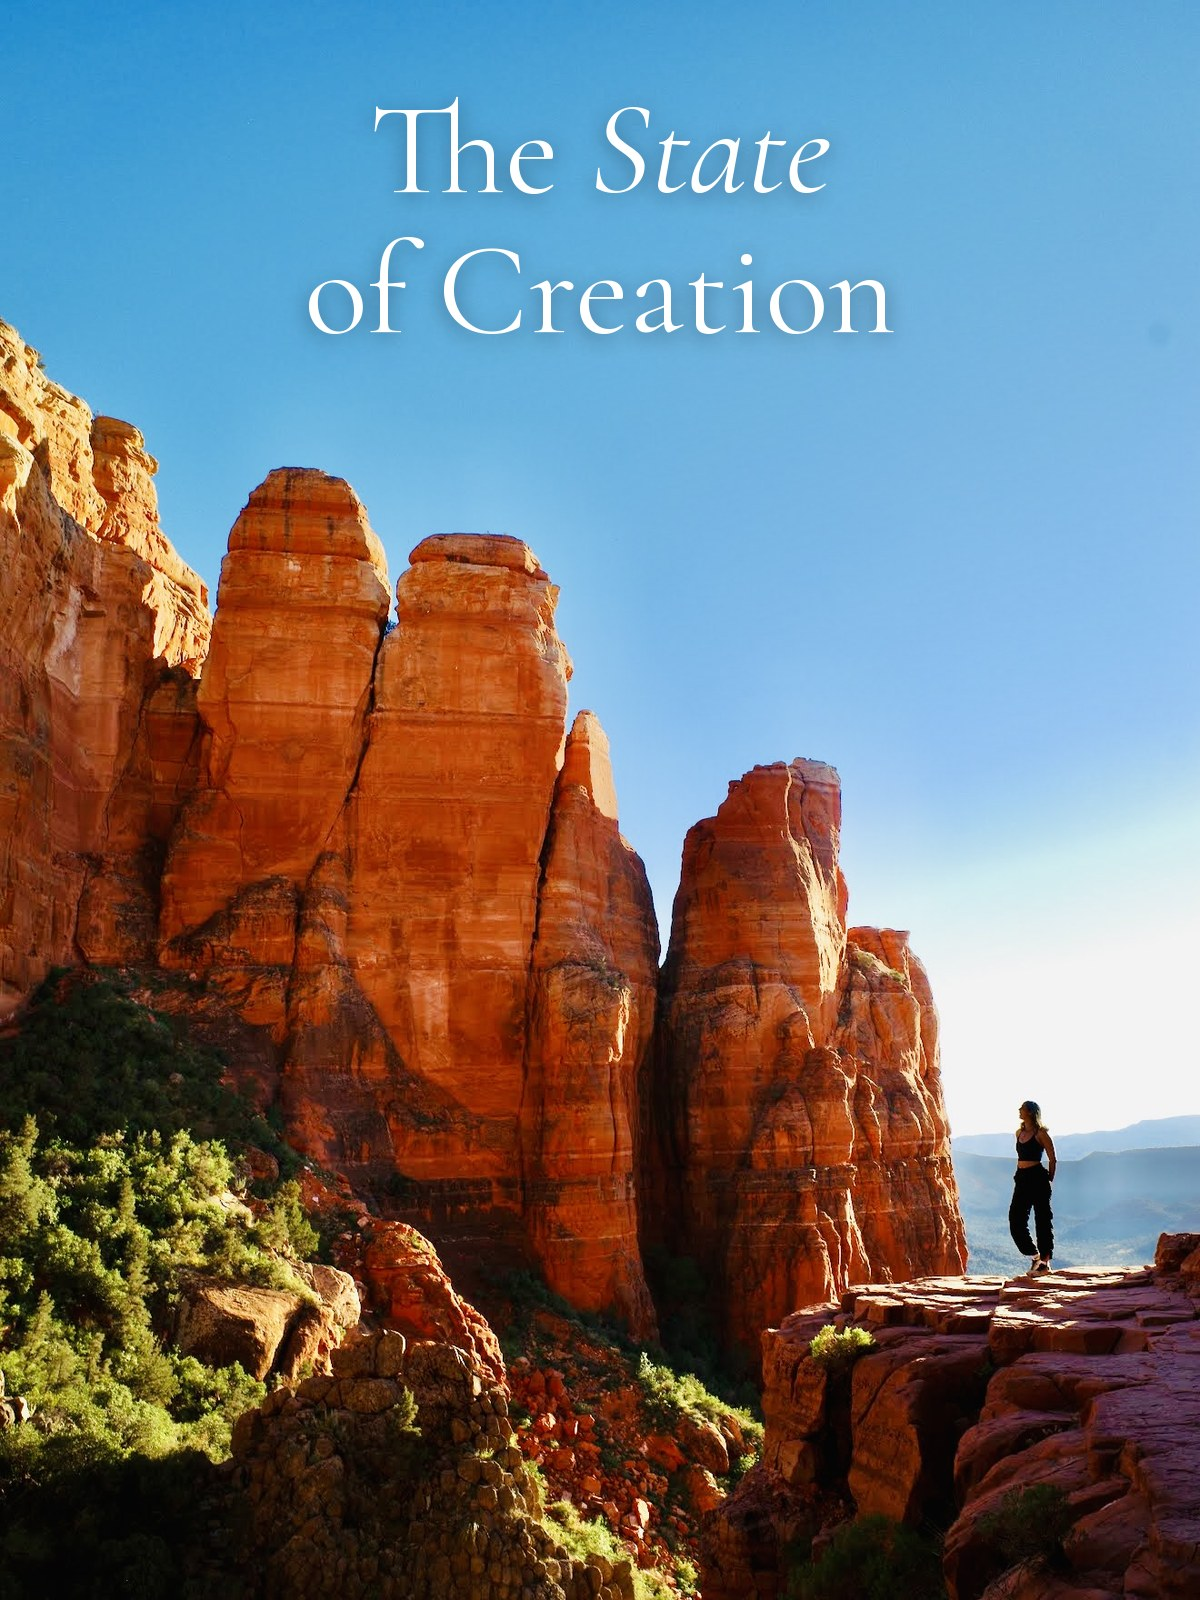
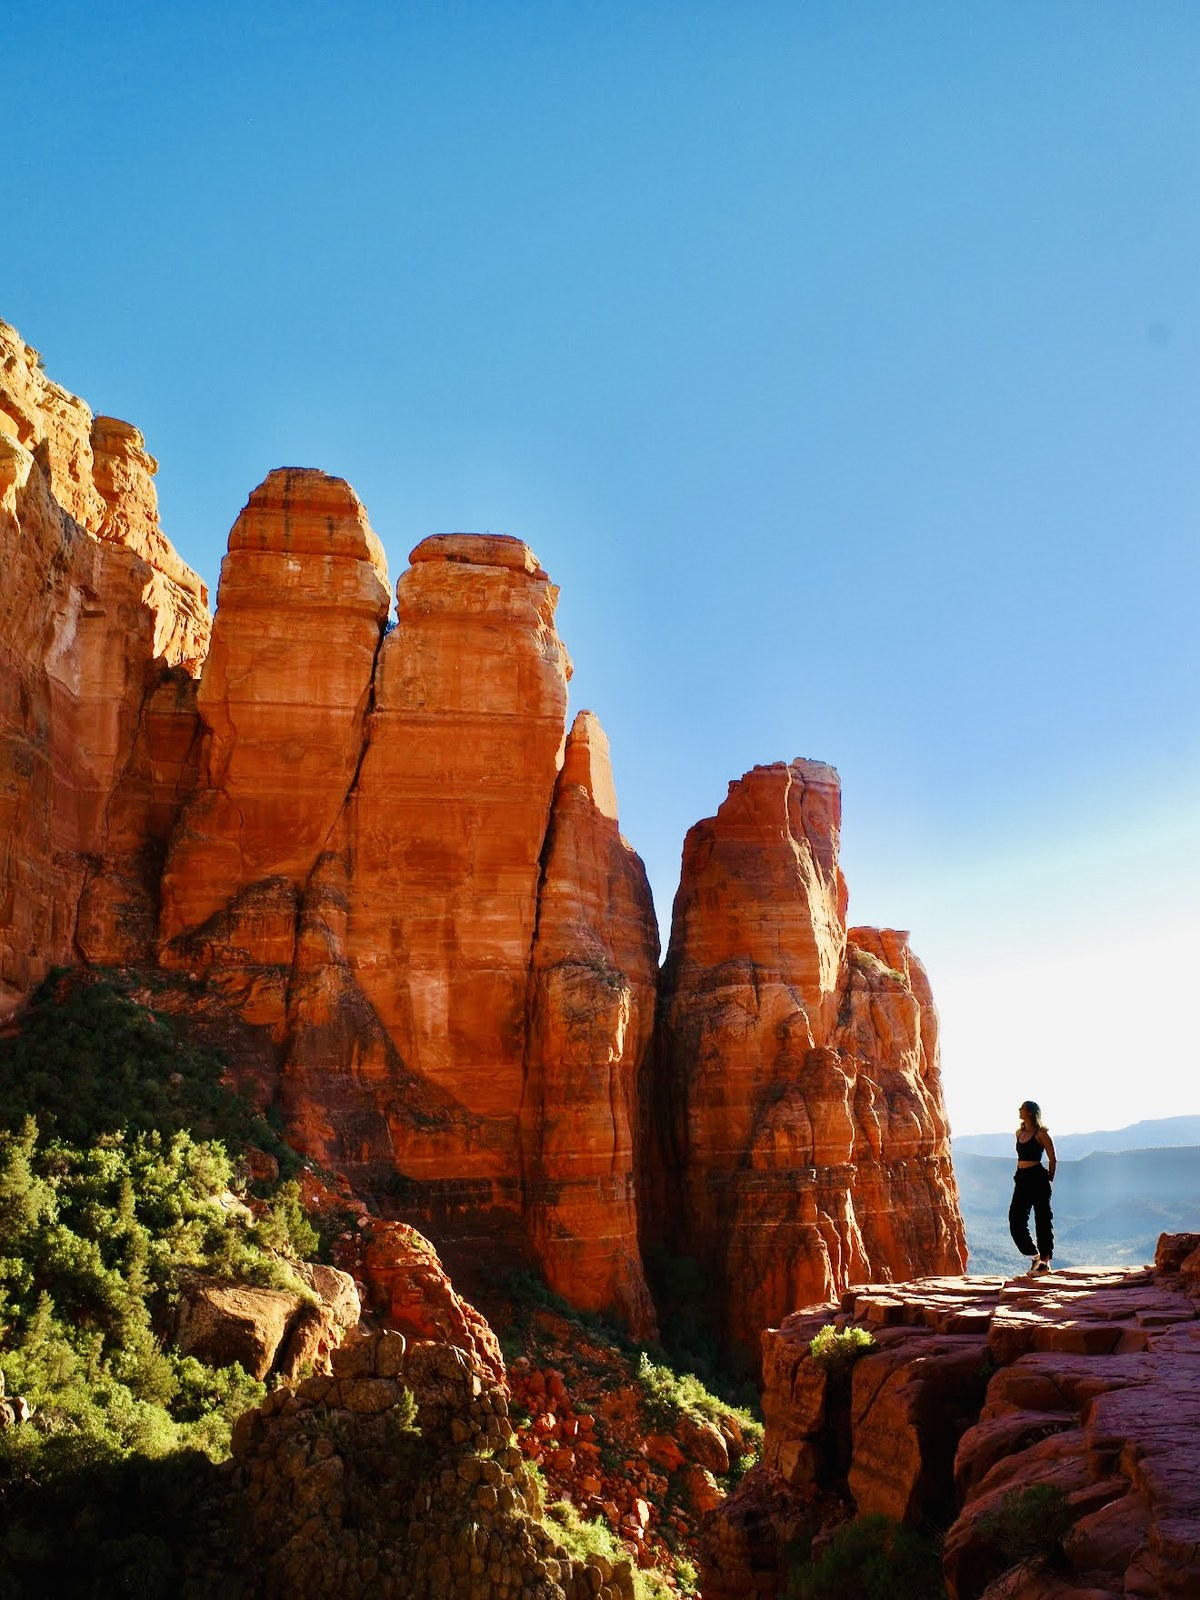
Share image: photo only, no words in the sky
Claude-Session: https://claude.ai/code/session_01KSTvJUZrE5h1y1oXdTAVhY

diff --git a/index.html b/index.html
@@ -13,7 +13,7 @@
   <meta property="og:image" content="https://thestateofcreation.com/share-image.jpg" />
   <meta property="og:image:width" content="1200" />
   <meta property="og:image:height" content="1600" />
-  <meta property="og:image:alt" content="The State of Creation, written in the sky above red rock towers in Sedona, with Alexa standing on a ledge" />
+  <meta property="og:image:alt" content="Red rock towers in Sedona, with Alexa standing on a ledge" />
   <meta name="twitter:card" content="summary_large_image" />
   <meta name="twitter:title" content="The State of Creation" />
   <meta name="twitter:image" content="https://thestateofcreation.com/share-image.jpg" />
